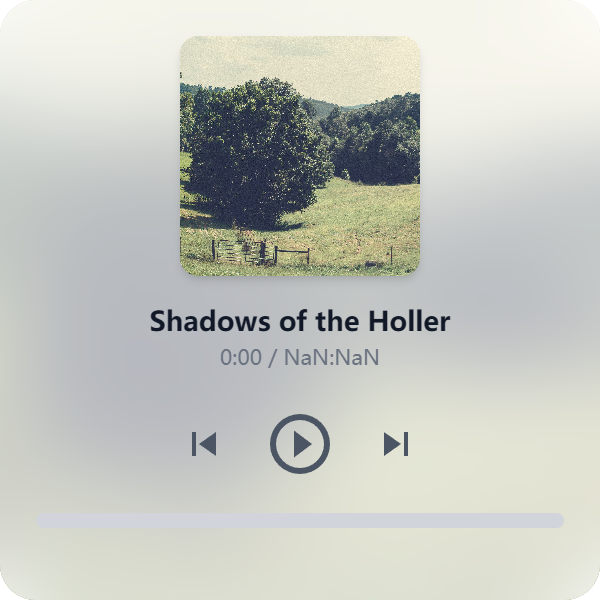
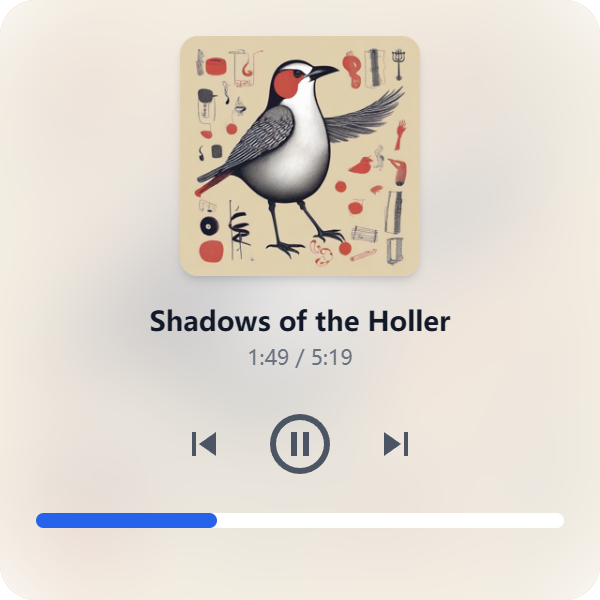
update

diff --git a/canva-alt.html b/canva-alt.html
@@ -8,6 +8,7 @@
 
         <!DOCTYPE html>
         <html lang="zh-CN">
+        
         <head>
             <meta charset="UTF-8">
             <meta name="viewport" content="width=device-width, initial-scale=1.0">
@@ -16,44 +17,64 @@
             <script src="https://code.iconify.design/iconify-icon/2.0.0/iconify-icon.min.js"></script>
             <style>
                 :root {
-                    --uiWidth: 600px;
+                    --uiWidth: 400px;
                     --uiHeight: 400px;
+                }
+        
+                #player-container {
+                    position: relative;
+                    background-color: rgba(255, 255, 255, 0.65);
+                    backdrop-filter: blur(30px);
+                }
+        
+                #player-background {
+                    position: absolute;
+                    top: 50%;
+                    left: 50%;
+                    transform: translate(-50%, -50%);
+                    background-size: cover;
+                    background-position: center;
+                    z-index: -1;
                 }
             </style>
         </head>
-        <body class="flex items-center justify-center h-screen bg-gradient-to-r from-teal-400 via-sky-500 to-indigo-600">
-            <div id="player-container" class="w-full h-full bg-white bg-clip-padding backdrop-filter backdrop-blur-lg bg-opacity-30 text-gray-100 rounded-lg shadow-lg p-6" style="max-width: var(--uiWidth); max-height: var(--uiHeight); border: 1px solid rgba(255, 255, 255, 0.3);">
-                <div id="player-header" class="flex flex-col justify-between items-center mb-6">
+        
+        <body class="flex items-center justify-center h-screen">
+            <div id="player-container" class="w-full h-full text-gray-800 rounded-3xl p-6 relative overflow-hidden"
+                style="max-width: var(--uiWidth); max-height: var(--uiHeight);">
+                <div id="player-header" class="flex flex-col items-center mb-6 relative z-10">
+                    <div id="album-cover" class="mb-4 rounded-xl overflow-hidden shadow-md">
+                        <img id="current-cover"
+                            src="https://images.unsplash.com/photo-1648198169467-278cdff02716?q=80&w=3502&auto=format&fit=crop&ixlib=rb-4.0.3&ixid=M3wxMjA3fDB8MHxwaG90by1wYWdlfHx8fGVufDB8fHx8fA%3D%3D"
+                            alt="Album Cover" class="w-40 h-40 object-cover">
+                    </div>
                     <div id="player-info" class="text-center">
-                        <p id="current-title" class="text-2xl font-bold tracking-wide">Shadows of the Holler</p>
-                        <p id="current-time" class="text-sm text-gray-200">00:00 / 00:00</p>
+                        <p id="current-title" class="text-lg font-bold text-gray-900">Shadows of the Holler</p>
+                        <p id="current-time" class="text-sm text-gray-500">00:00 / 00:00</p>
                     </div>
                 </div>
-                <div id="player-controls" class="flex items-center justify-center mb-6 space-x-8">
-                    <button id="prev-btn" class="focus:outline-none bg-blue-700 hover:bg-blue-800 text-white px-4 py-2 rounded-full">
-                        <iconify-icon icon="ic:baseline-skip-previous" width="32" height="32"></iconify-icon>
+                <div id="player-controls" class="flex items-center justify-center mb-4 space-x-6 text-gray-600 relative z-10">
+                    <button id="prev-btn" class="focus:outline-none">
+                        <iconify-icon icon="ic:baseline-skip-previous" width="32" height="32"
+                            class="hover:text-gray-900"></iconify-icon>
                     </button>
-                    <button id="play-btn" class="focus:outline-none bg-green-500 hover:bg-green-600 text-white px-4 py-2 rounded-full">
-                        <iconify-icon icon="ic:baseline-play-circle-outline" width="48" height="48"></iconify-icon>
+                    <button id="play-btn" class="focus:outline-none">
+                        <iconify-icon icon="ic:baseline-play-circle-outline" width="48" height="48"
+                            class="hover:text-gray-900"></iconify-icon>
                     </button>
-                    <button id="next-btn" class="focus:outline-none bg-blue-700 hover:bg-blue-800 text-white px-4 py-2 rounded-full">
-                        <iconify-icon icon="ic:baseline-skip-next" width="32" height="32"></iconify-icon>
+                    <button id="next-btn" class="focus:outline-none">
+                        <iconify-icon icon="ic:baseline-skip-next" width="32" height="32"
+                            class="hover:text-gray-900"></iconify-icon>
                     </button>
                 </div>
-                <div id="player-progress" class="w-full bg-gray-700 h-2 rounded mb-4 relative">
-                    <div id="progress-bar" class="bg-green-500 h-2 rounded" style="width: 0;"></div>
-                </div>
-                <div id="track-list" class="mt-6">
-                    <p class="font-semibold text-lg mb-2">播放列表：</p>
-                    <ul>
-                        <li class="track px-4 py-2 hover:bg-gray-600 cursor-pointer rounded" data-src="https://cdn1.suno.ai/6a6bdd56-d583-4e0a-9869-b98a8c72a37b.mp3" data-title="Shadows of the Holler">1. Shadows of the Holler</li>
-                        <li class="track px-4 py-2 hover:bg-gray-600 cursor-pointer rounded" data-src="https://cdn1.suno.ai/a5e2198a-f352-4abb-9a24-7f81b143ded3.mp3" data-title="Stone">2. Stone</li>
-                        <li class="track px-4 py-2 hover:bg-gray-600 cursor-pointer rounded" data-src="https://cdn1.suno.ai/19807561-1427-4c25-a229-a8c3063d0616.mp3" data-title="Egyptian Dance Party">3. Egyptian Dance Party</li>
-                    </ul>
+                <div id="player-progress" class="relative w-full bg-gray-300 rounded-full h-2.5 mb-4 relative z-10">
+                    <div id="progress-bar" class="bg-blue-600 h-2.5 rounded-full" style="width: 0;"></div>
                 </div>
                 <audio id="audio" src="https://cdn1.suno.ai/6a6bdd56-d583-4e0a-9869-b98a8c72a37b.mp3" preload="auto"></audio>
             </div>
-        
+            <div id="player-background" class="w-full h-full text-gray-800 rounded-3xl p-6 relative overflow-hidden"
+                style="background-image: url('https://images.unsplash.com/photo-1648198169467-278cdff02716?q=80&w=3502&auto=format&fit=crop&ixlib=rb-4.0.3&ixid=M3wxMjA3fDB8MHxwaG90by1wYWdlfHx8fGVufDB8fHx8fA%3D%3D'); max-width: var(--uiWidth); max-height: var(--uiHeight);">
+            </div>
             <script type="text/javascript">
                 const audio = document.getElementById('audio');
                 const playBtn = document.getElementById('play-btn');
@@ -62,22 +83,26 @@
                 const progressBar = document.getElementById('progress-bar');
                 const currentTitle = document.getElementById('current-title');
                 const currentTime = document.getElementById('current-time');
-                const tracks = document.querySelectorAll('.track');
+                const currentCover = document.getElementById('current-cover');
+                const playerBackground = document.getElementById('player-background');
         
                 let isPlaying = false;
                 let currentTrackIndex = 0;
                 const trackList = [
                     {
                         src: "https://cdn1.suno.ai/6a6bdd56-d583-4e0a-9869-b98a8c72a37b.mp3",
-                        title: "Shadows of the Holler"
+                        title: "Shadows of the Holler",
+                        cover: "https://images.unsplash.com/photo-1648198169467-278cdff02716?q=80&w=3502&auto=format&fit=crop&ixlib=rb-4.0.3&ixid=M3wxMjA3fDB8MHxwaG90by1wYWdlfHx8fGVufDB8fHx8fA%3D%3D"
                     },
                     {
                         src: "https://cdn1.suno.ai/a5e2198a-f352-4abb-9a24-7f81b143ded3.mp3",
-                        title: "Stone"
+                        title: "Stone",
+                        cover: "https://images.unsplash.com/photo-1531180488878-b785d2ce8f71?q=80&w=3415&auto=format&fit=crop&ixlib=rb-4.0.3&ixid=M3wxMjA3fDB8MHxwaG90by1wYWdlfHx8fGVufDB8fHx8fA%3D%3D"
                     },
                     {
                         src: "https://cdn1.suno.ai/19807561-1427-4c25-a229-a8c3063d0616.mp3",
-                        title: "Egyptian Dance Party"
+                        title: "Egyptian Dance Party",
+                        cover: "https://images.unsplash.com/photo-1539768942893-daf53e448371?q=80&w=3542&auto=format&fit=crop&ixlib=rb-4.0.3&ixid=M3wxMjA3fDB8MHxwaG90by1wYWdlfHx8fGVufDB8fHx8fA%3D%3D"
                     }
                 ];
         
@@ -105,7 +130,7 @@
                     loadTrack(currentTrackIndex);
                     const playPromise = audio.play();
                     if (playPromise !== undefined) {
-                        playPromise.then(() => {}).catch(error => {
+                        playPromise.then(() => { }).catch(error => {
                             console.error(error);
                         });
                     }
@@ -124,6 +149,8 @@
                     const track = trackList[index];
                     audio.src = track.src;
                     currentTitle.textContent = `${track.title}`;
+                    currentCover.src = track.cover;
+                    playerBackground.style.backgroundImage = `url('${track.cover}')`;
                     audio.load();
                 }
         
@@ -133,24 +160,10 @@
                     return `${minutes}:${seconds}`;
                 }
         
-                tracks.forEach((track, index) => {
-                    track.addEventListener('click', () => {
-                        currentTrackIndex = index;
-                        loadTrack(currentTrackIndex);
-                        const playPromise = audio.play();
-                        if (playPromise !== undefined) {
-                            playPromise.then(() => {}).catch(error => {
-                                console.error(error);
-                            });
-                        }
-                        isPlaying = true;
-                        playBtn.firstElementChild.setAttribute("icon", "ic:baseline-pause-circle-outline");
-                    });
-                });
-        
                 loadTrack(currentTrackIndex);
             </script>
         </body>
+        
         </html>
         
 

diff --git a/已整理/音乐播放器.html b/已整理/音乐播放器.html
@@ -59,13 +59,13 @@
                     class="hover:text-gray-900"></iconify-icon>
             </button>
         </div>
-        <div id="player-progress" class="relative w-full bg-gray-300 rounded-full h-2.5 mb-4 relative z-10">
+        <div id="player-progress" class="relative w-full bg-white rounded-full h-2.5 mb-4 relative z-10">
             <div id="progress-bar" class="bg-blue-600 h-2.5 rounded-full" style="width: 0;"></div>
         </div>
         <audio id="audio" src="https://cdn1.suno.ai/6a6bdd56-d583-4e0a-9869-b98a8c72a37b.mp3" preload="auto"></audio>
     </div>
     <div id="player-background" class="w-full h-full text-gray-800 rounded-3xl p-6 relative overflow-hidden"
-        style="background-image: url('https://images.unsplash.com/photo-1648198169467-278cdff02716?q=80&w=3502&auto=format&fit=crop&ixlib=rb-4.0.3&ixid=M3wxMjA3fDB8MHxwaG90by1wYWdlfHx8fGVufDB8fHx8fA%3D%3D'); max-width: var(--uiWidth); max-height: var(--uiHeight);">
+        style="background-image: url('https://cdn1.suno.ai/image_768adf51-ba69-44c7-9c6a-a488babb73e7.png'); max-width: var(--uiWidth); max-height: var(--uiHeight);">
     </div>
     <script type="text/javascript">
         const audio = document.getElementById('audio');
@@ -84,17 +84,17 @@
             {
                 src: "https://cdn1.suno.ai/6a6bdd56-d583-4e0a-9869-b98a8c72a37b.mp3",
                 title: "Shadows of the Holler",
-                cover: "https://images.unsplash.com/photo-1648198169467-278cdff02716?q=80&w=3502&auto=format&fit=crop&ixlib=rb-4.0.3&ixid=M3wxMjA3fDB8MHxwaG90by1wYWdlfHx8fGVufDB8fHx8fA%3D%3D"
+                cover: "https://cdn1.suno.ai/image_768adf51-ba69-44c7-9c6a-a488babb73e7.png"
             },
             {
                 src: "https://cdn1.suno.ai/a5e2198a-f352-4abb-9a24-7f81b143ded3.mp3",
                 title: "Stone",
-                cover: "https://images.unsplash.com/photo-1531180488878-b785d2ce8f71?q=80&w=3415&auto=format&fit=crop&ixlib=rb-4.0.3&ixid=M3wxMjA3fDB8MHxwaG90by1wYWdlfHx8fGVufDB8fHx8fA%3D%3D"
+                cover: "https://cdn1.suno.ai/image_93dab67e-956e-410a-8f7a-487f265a5f5f.png"
             },
             {
                 src: "https://cdn1.suno.ai/19807561-1427-4c25-a229-a8c3063d0616.mp3",
                 title: "Egyptian Dance Party",
-                cover: "https://images.unsplash.com/photo-1539768942893-daf53e448371?q=80&w=3542&auto=format&fit=crop&ixlib=rb-4.0.3&ixid=M3wxMjA3fDB8MHxwaG90by1wYWdlfHx8fGVufDB8fHx8fA%3D%3D"
+                cover: "https://cdn1.suno.ai/image_fd9931b6-154b-4863-9e02-c3c7b19f4d08.png"
             }
         ];
 
